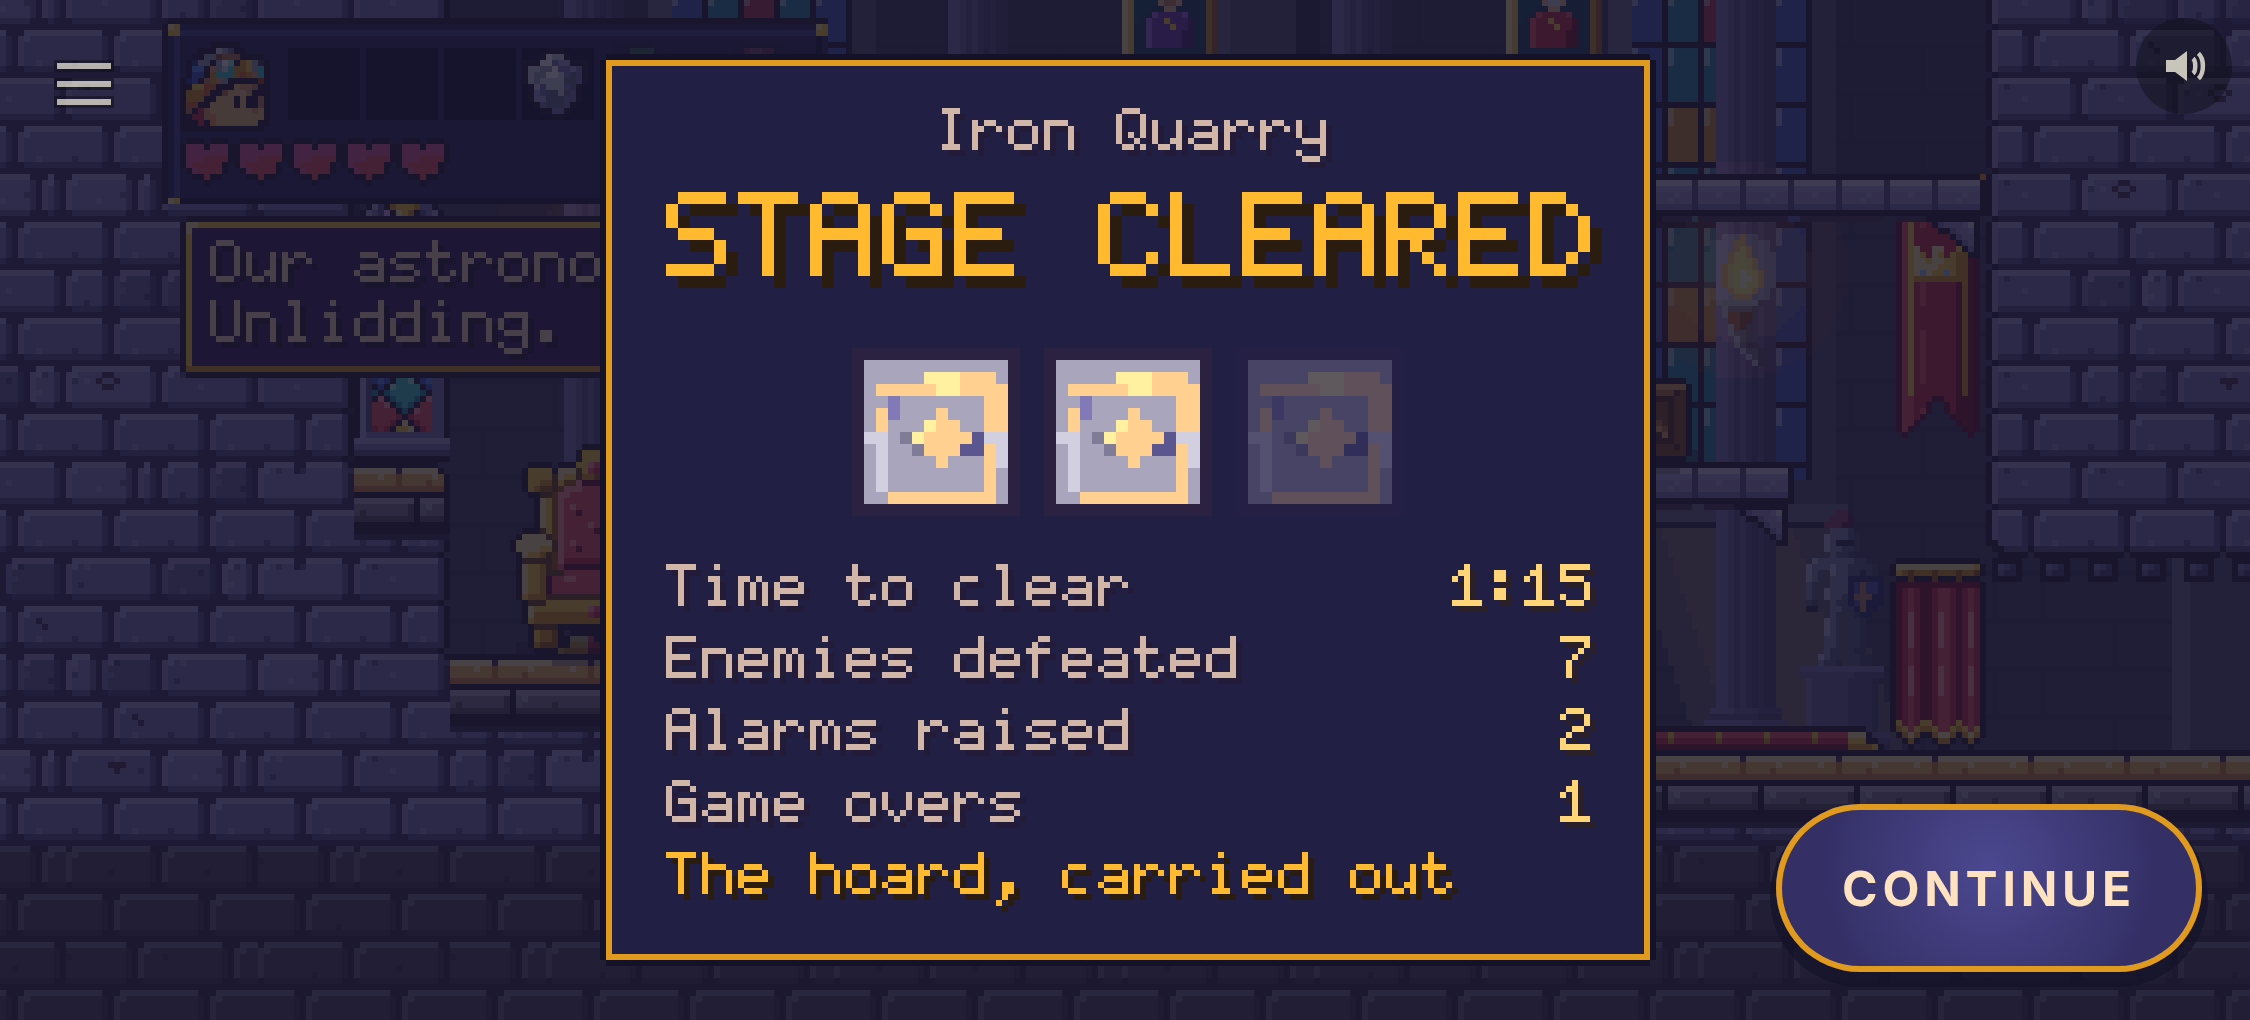
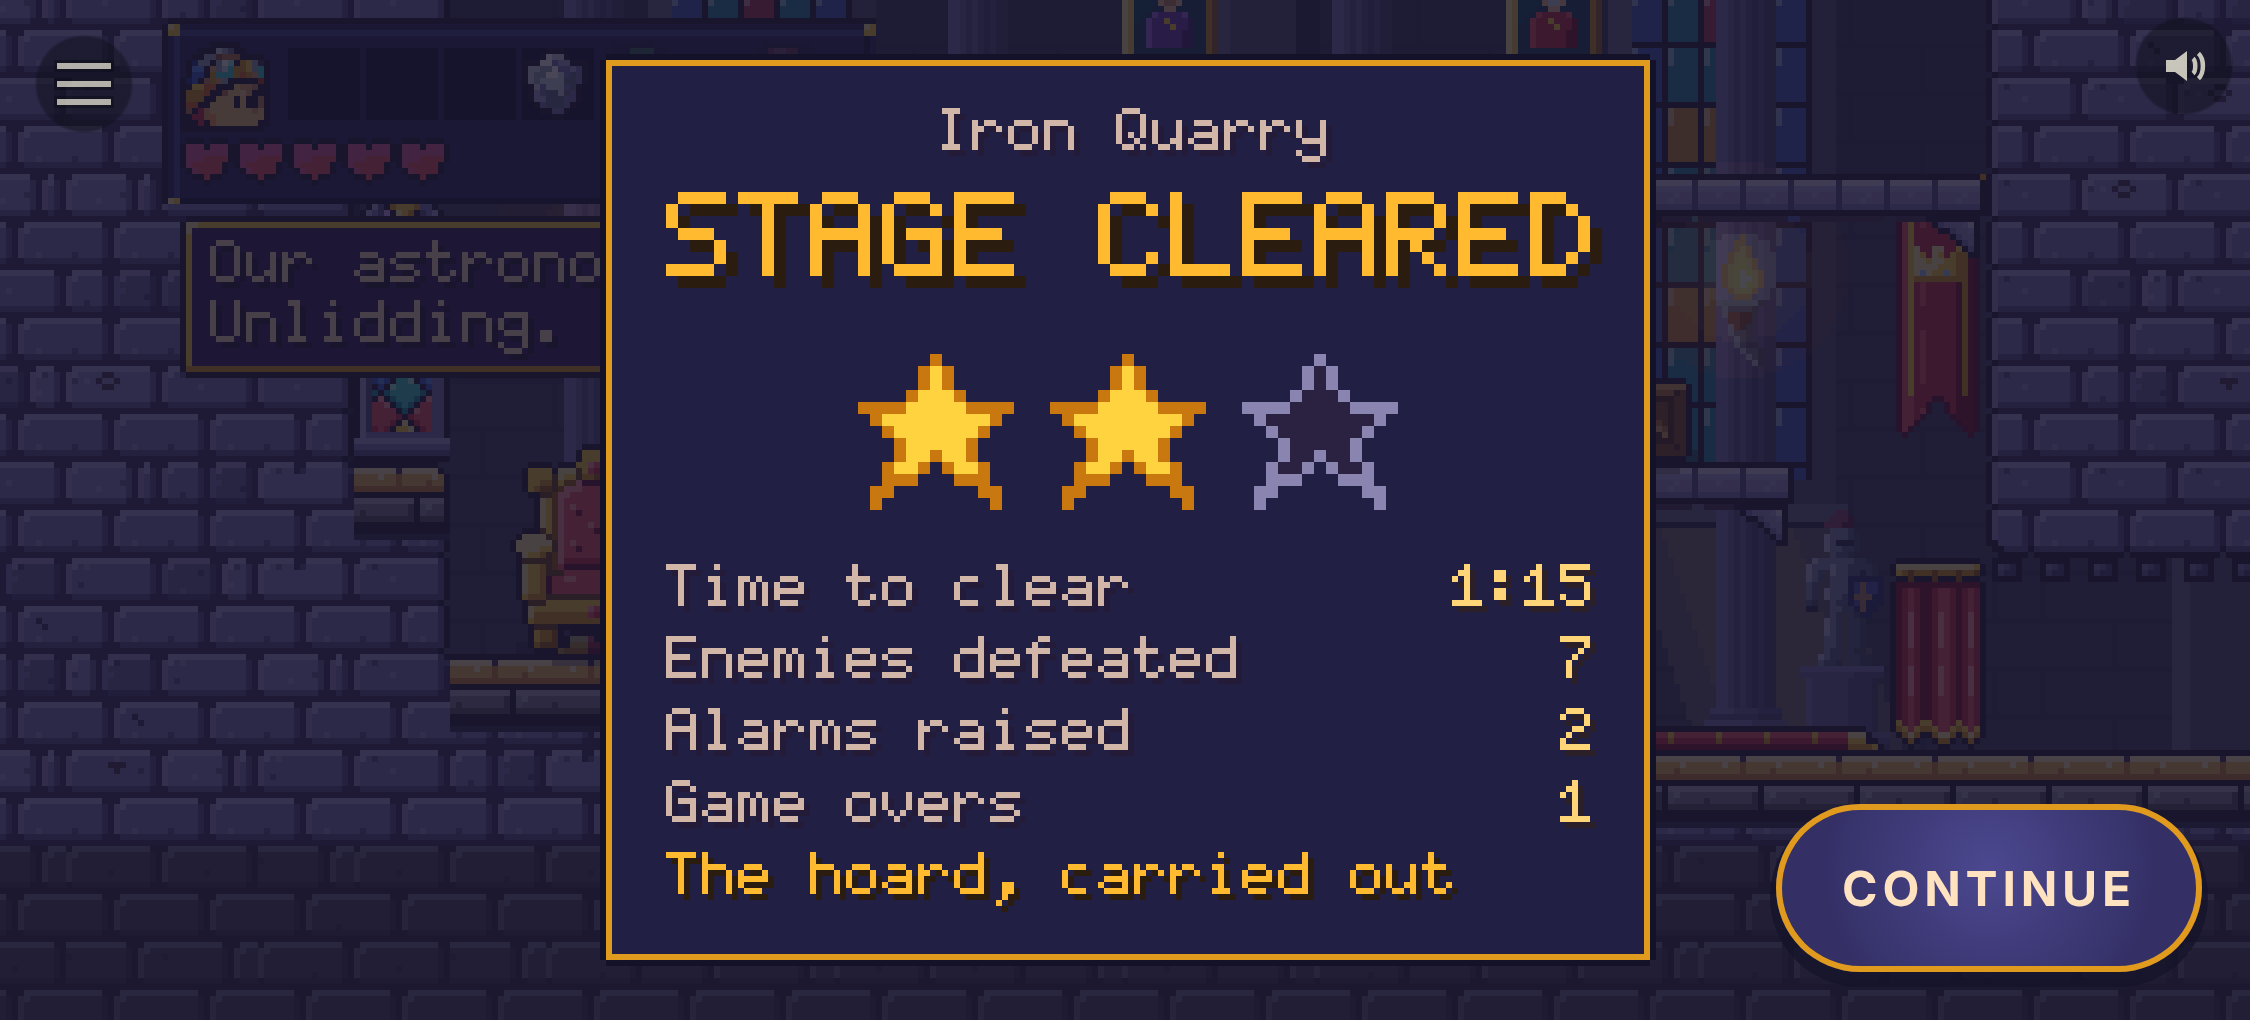
Phone HUD: a star is filled when earned and empty when not, never dimmed; a lighting star flashes instead of growing over its neighbour
Brief handoff-prompts/phone-hud-legibility.md, item 5, agreed with Step 22's
lead (session_017WiGzF7NsB3KTwXkWUXE63) by message first: drawing only, no
change to stage.ts's state, events, timings, sounds or drawn.stage. The look
pass found STAGE CLEARED's stars read as chests (the Hall's frame look) and
an unearned one was the same look at 28%. Now src/client/draw/stars.ts draws
a 13 px pixel star at a whole scale: gold filled when earned, a dark inside
with a pale edge when not; the star that lights flashes pale for six frames
and never scales. The entrance sign's best row (levels.ts drawBest) draws
the same. DRAFT stand-in: a real star sprite is asked of Vision Partner
(docs/plan/step-8.md, "Phone HUD").

Fresh docs/plan/step-22-shots/push4-*.png from the e2e's stage facts, as
the lead asked. Ran: npm run build, npm run check, npm run e2e (see the
push's report). Moves no measure row. Undo: revert this commit.

Claude-Session: https://claude.ai/code/session_017WiGzHxAKbURW5YnQt6bDN

Changed region(s): [[0.3733, 0.3343, 0.6222, 0.5167]]

diff --git a/src/client/draw/stars.ts b/src/client/draw/stars.ts
@@ -1,0 +1,51 @@
+// A rating star, earned or not, drawn as pixels (brief phone-hud-legibility, 2026-11-24, item 5;
+// docs/plan/step-8.md, "Look pass", item 9: STAGE CLEARED's stars were the Hall's frame look,
+// which reads as a chest at phone size, and an unearned one was the same look dimmed).
+// An earned star is a filled gold star; an unearned one the same shape empty: a dark inside
+// and a pale edge, at full strength, so the two read apart at a glance. Integer scale only.
+// DRAFT: the shape and colours are a stand-in until a star is cut from the approved sheets
+// (asked for in docs/mechanisms/asset-requests.md); STAGE CLEARED (draw/stage.ts) and the
+// entrance sign's best row (draw/levels.ts) both draw it.
+
+/** 13 by 13: '#' inside the star. */
+const SHAPE = [
+  '......#......',
+  '.....###.....',
+  '.....###.....',
+  '....#####....',
+  '#############',
+  '.###########.',
+  '..#########..',
+  '...#######...',
+  '...#######...',
+  '..####.####..',
+  '..###...###..',
+  '.##.......##.',
+  '.#.........#.',
+];
+export const STAR_ART = SHAPE.length;
+
+const inside = (r: number, c: number): boolean => SHAPE[r]?.[c] === '#';
+const edge = (r: number, c: number): boolean => inside(r, c) && (!inside(r - 1, c) || !inside(r + 1, c) || !inside(r, c - 1) || !inside(r, c + 1));
+
+const GOLD = '#ffd23f';
+const GOLD_EDGE = '#c8780e';
+const FLASH = '#fff6c8';
+const HOLLOW = '#2b2140';
+const HOLLOW_EDGE = '#8a84b0';
+
+/**
+ * Draws one star with its top-left at (x, y), `k` device-free game px per art px (a whole number).
+ * `flash`: the moment it lights, drawn pale instead of gold (no scaling, so it never crosses its neighbour).
+ */
+export function drawRatingStar(g: CanvasRenderingContext2D, x: number, y: number, k: number, earned: boolean, flash = false): void {
+  const s = Math.max(1, Math.floor(k));
+  for (let r = 0; r < SHAPE.length; r++) {
+    for (let c = 0; c < SHAPE[r]!.length; c++) {
+      if (!inside(r, c)) continue;
+      const rim = edge(r, c);
+      g.fillStyle = earned ? (flash ? FLASH : rim ? GOLD_EDGE : GOLD) : rim ? HOLLOW_EDGE : HOLLOW;
+      g.fillRect(Math.round(x) + c * s, Math.round(y) + r * s, s, s);
+    }
+  }
+}

diff --git a/src/client/draw/levels.ts b/src/client/draw/levels.ts
@@ -6,6 +6,7 @@ import type { PlayerView } from './entities.ts';
 import { drawText, textWidth, useContent } from './fx.ts';
 import { drawLook, look } from './looks.ts';
 import { drawnBanner, queueBanner } from './banner.ts';
+import { drawRatingStar } from './stars.ts';
 import { drawPieces, levelPieces, piecesWidth } from './completion.ts';
 import { stageBest } from '../../sim/stage.ts';
 
@@ -153,21 +154,15 @@ export function drawLevelSigns(g: CanvasRenderingContext2D, content: Content): v
 
 /**
  * Step 22 push 3: a stage's best clear as three stars, lit as earned and the
- * rest dim (the `hall-frame-star` look, P04's Hall atlas).
+ * rest empty (draw/stars.ts; it was the `hall-frame-star` look, P04's Hall atlas, dimmed).
  * INTENT (t-no-numbers; this file's header): no digit in the game picture, so
  * the best time is not on the sign; the menu row (HTML, src/client/start.ts)
- * shows it. DRAFT (docs/decisions-log.md, "Step 22 push 3"): dim is the same
- * star at a third opacity.
+ * shows it. DRAFT (docs/decisions-log.md, "Step 22 push 3"; the phone HUD's
+ * entry): an unearned star is the same star empty, not dimmed.
  */
-function drawBest(g: CanvasRenderingContext2D, content: Content, stars: number, x: number, y: number): void {
-  for (let i = 0; i < 3; i++) {
-    g.globalAlpha = i < stars ? 1 : 0.3;
-    if (!drawLook(g, content, 'hall-frame-star', x + i * (STAR + 1), y)) {
-      g.fillStyle = i < stars ? '#ffd23f' : '#5a5470';
-      g.fillRect(x + i * (STAR + 1) + 3, y + 3, STAR - 6, STAR - 6);
-    }
-  }
-  g.globalAlpha = 1;
+function drawBest(g: CanvasRenderingContext2D, _content: Content, stars: number, x: number, y: number): void {
+  // DRAFT (brief phone-hud-legibility, item 5): earned filled, unearned empty (draw/stars.ts), as STAGE CLEARED.
+  for (let i = 0; i < 3; i++) drawRatingStar(g, x + i * (STAR + 1), y, 1, i < stars);
 }
 
 /** The name and the pie on one dark plate. */

diff --git a/src/client/draw/stage.ts b/src/client/draw/stage.ts
@@ -2,7 +2,7 @@ import type { Content } from '../../content/types.ts';
 import '../../sim/stage.ts';
 import type { SimEvent } from '../../sim/types.ts';
 import { drawText, safeView, textWidth } from './fx.ts';
-import { drawLook } from './looks.ts';
+import { drawRatingStar, STAR_ART } from './stars.ts';
 
 // Step 22 push 4 (docs/mechanisms/stages.md, "The victory screen"; the owner,
 // 2026-11-24: "Needs a satisfying victory screen at the end. Stage cleared,
@@ -218,16 +218,14 @@ export function drawStage(g: CanvasRenderingContext2D, content: Content, W: numb
       starsSounded = i + 1;
       sounds.push(STAR_SOUND);
     }
-    const grow = on && age - due < 10 ? 1 + (10 - (age - due)) / 12 : 1;
-    const size = Math.round(starPx * grow);
-    const px = Math.round(sx + i * (starPx + 4) + (starPx - size) / 2);
-    const py = Math.round(cy + (starPx - size) / 2);
-    g.globalAlpha = on ? 1 : 0.28;
-    if (!drawLook(g, content, 'hall-frame-star', px, py, { w: size, h: size })) {
-      g.fillStyle = on ? GOLD : '#5a5470';
-      g.fillRect(px + size / 4, py + size / 4, size / 2, size / 2);
-    }
-    g.globalAlpha = 1;
+    // DRAFT (brief phone-hud-legibility, item 5, agreed with Step 22's lead): earned is a filled star and unearned
+    // an empty one (draw/stars.ts), never a dimmed look; a star lighting flashes pale for a moment and never
+    // grows, so it cannot cover its neighbour.
+    const k = Math.max(1, Math.floor(starPx / STAR_ART));
+    const sz = k * STAR_ART;
+    const px = Math.round(sx + i * (starPx + 4) + (starPx - sz) / 2);
+    const py = Math.round(cy + (starPx - sz) / 2);
+    drawRatingStar(g, px, py, k, on, on && age - due < 6);
   }
   cy += starPx + 8;
 

diff --git a/docs/mechanisms/stages.md b/docs/mechanisms/stages.md
@@ -94,8 +94,8 @@ power sources, the roster.
 ## Shown
 
 - **The level's sign** (`src/client/draw/levels.ts`, `drawLevelSigns`): once
-  there is a best, a row of three `hall-frame-star` under the name and the
-  pieces, the earned ones lit, the rest dim. No time: `INTENT:` no digit in
+  there is a best, a row of three stars under the name and the
+  pieces (`src/client/draw/stars.ts`), the earned ones filled, the rest empty. No time: `INTENT:` no digit in
   the game picture (`t-no-numbers`). `drawn.levels.entrances[].best`.
 - **The menu row** (`src/client/start.ts`, `.st-stars`, `data-stars`): the
   same stars and the best time as m:ss (`stageClock`), in HTML.
@@ -108,7 +108,9 @@ power sources, the roster.
   level or who cleared it (every snapshot carries every event,
   `src/server/game.ts`).
 - On the game canvas, in the pixel font (`light`): the level's name,
-  STAGE CLEARED at 2x when it fits, then three `hall-frame-star`. The
+  STAGE CLEARED at 2x when it fits, then three stars (`draw/stars.ts`,
+  filled when earned and empty when not; a lighting star flashes pale and
+  never grows, the phone-HUD brief). The
   earned ones light one at a time (frame 30, then every 50), each with the
   sound `secret-found` (`audio.cue`).
 - Then the statistics count up in turn: time to clear (m:ss), enemies
